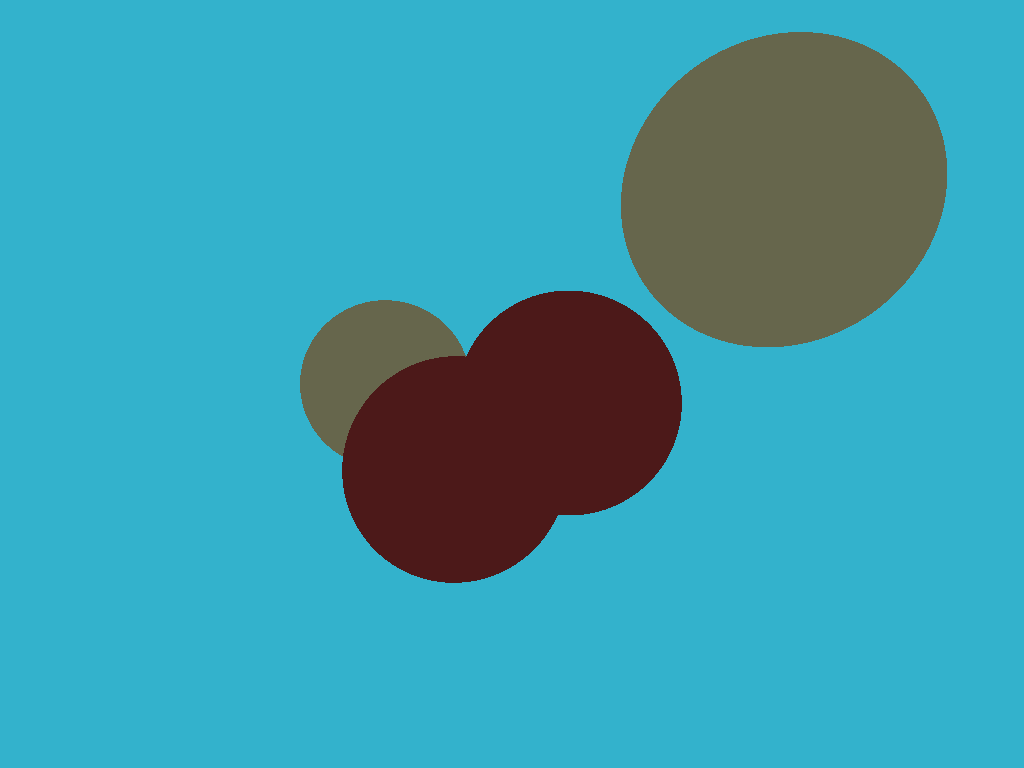
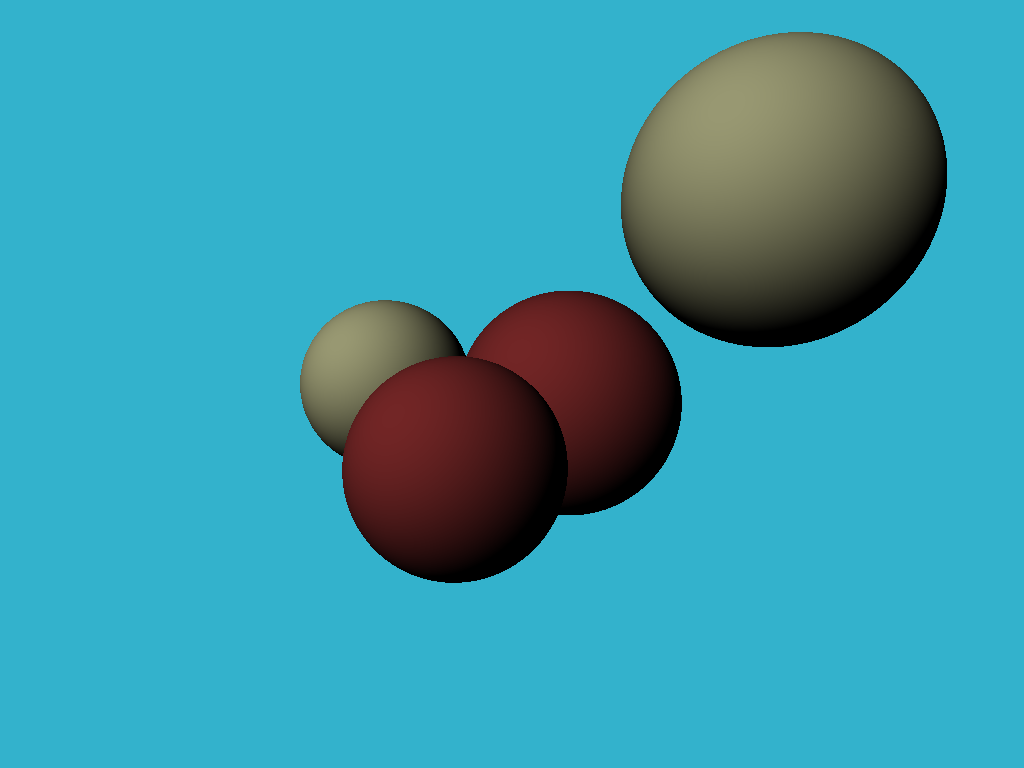
Step 4, add lighting

diff --git a/goray/render.go b/goray/render.go
@@ -9,6 +9,11 @@ import (
 	"time"
 )
 
+type light struct {
+	position  Vec3f
+	intensity float64
+}
+
 func sceneIntersect(orig, dir Vec3f, spheres []Sphere) (bool, Material, Vec3f, Vec3f) {
 	spheresDist := math.MaxFloat64
 	var hit, N Vec3f
@@ -29,19 +34,22 @@ func sceneIntersect(orig, dir Vec3f, spheres []Sphere) (bool, Material, Vec3f, V
 
 var background = Vec3f{0.2, 0.7, 0.8}
 
-func castRay(orig, dir Vec3f, spheres []Sphere) Vec3f {
+func castRay(orig, dir Vec3f, spheres []Sphere, lights []light) Vec3f {
 	intersect, material, point, N := sceneIntersect(orig, dir, spheres)
 	if !intersect {
 		return background // Background
 	}
 
-	_ = N
-	_ = point
+	var diffuseLightIntensity float64
+	for _, l := range lights {
+		lightDir := vSubtract(l.position, point).normalize()
+		diffuseLightIntensity += l.intensity * math.Max(0., vDot(lightDir, N))
+	}
 
-	return material.diffuseColor
+	return vMult(material.diffuseColor, diffuseLightIntensity)
 }
 
-func render(spheres []Sphere) {
+func render(spheres []Sphere, lights []light) {
 	const width = 1024
 	const height = 768
 	const fov = math.Pi / 3.
@@ -64,7 +72,7 @@ func render(spheres []Sphere) {
 			dirY := -(float64(j) + 0.5) + float64(height)/2.
 			dirZ := -height / (2. * math.Tan(fov/2.))
 			dir := Vec3f{dirX, dirY, dirZ}.normalize()
-			framebuffer[i+j*width] = castRay(orig, dir, spheres)
+			framebuffer[i+j*width] = castRay(orig, dir, spheres, lights)
 		}
 	}
 
@@ -98,8 +106,11 @@ func Scene() {
 	spheres = append(spheres, Sphere{Vec3f{1.5, -0.5, -18.}, 3., redRubber})
 	spheres = append(spheres, Sphere{Vec3f{7., 5., -18.}, 4., ivory})
 
+	var lights []light
+	lights = append(lights, light{Vec3f{-20., 20., 20.}, 1.5})
+
 	renderStart := time.Now()
-	render(spheres)
+	render(spheres, lights)
 	renderElapsed := time.Since(renderStart)
 	fmt.Printf("Render took %s\n", renderElapsed)
 }
